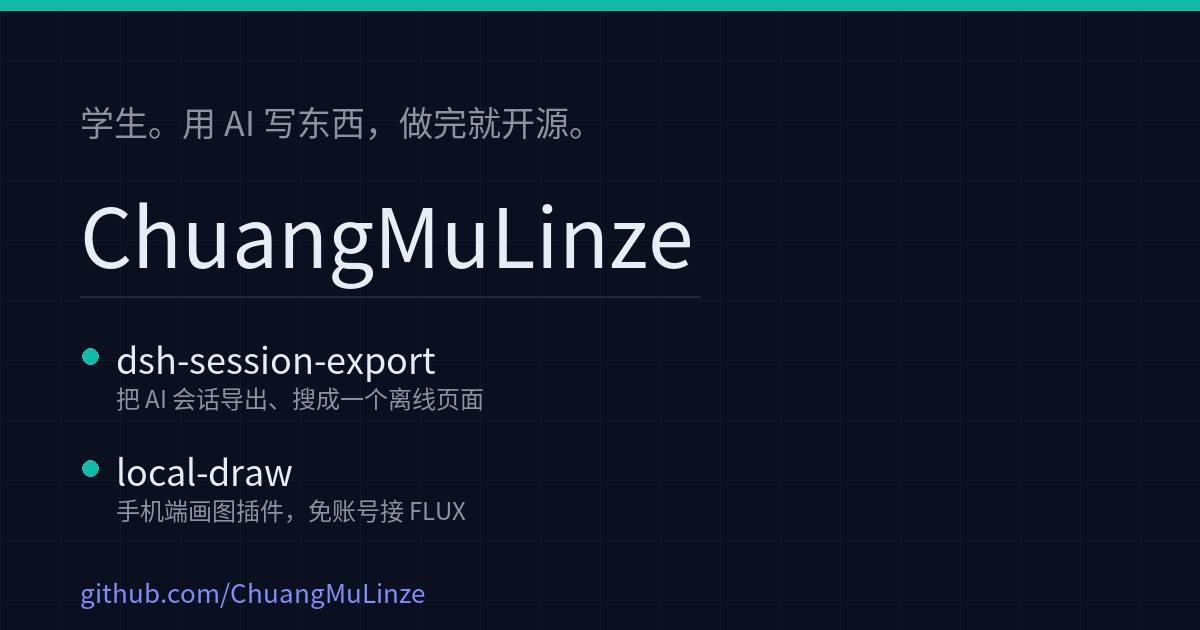
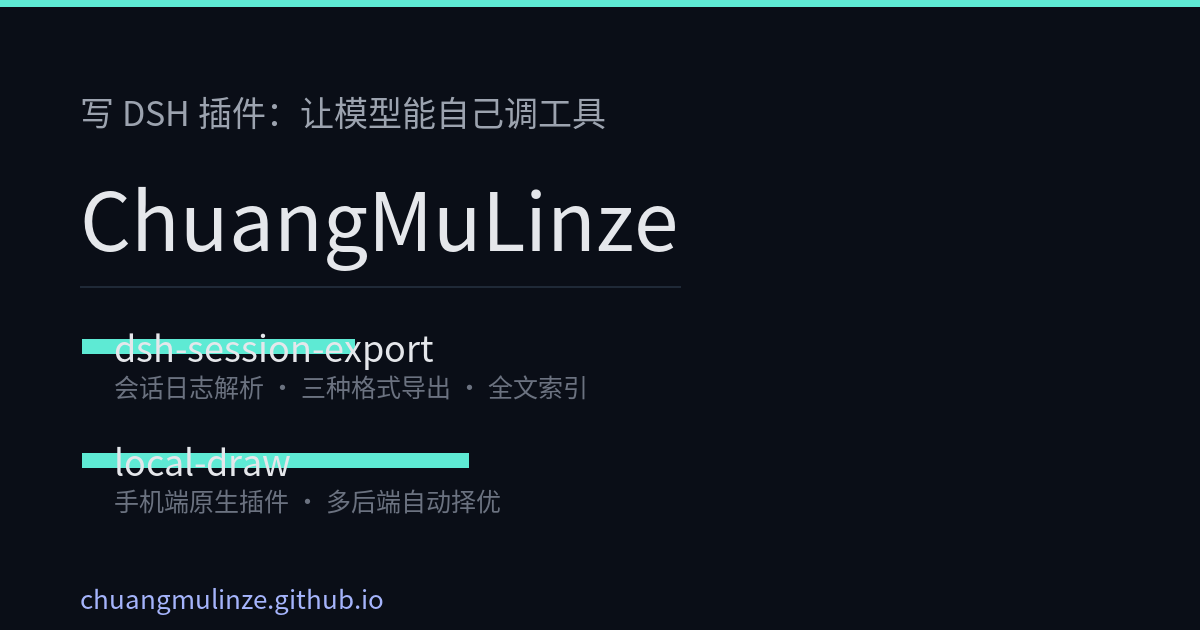
copy: 重写文案，加入具体机制与实测数字

diff --git a/index.html b/index.html
@@ -3,131 +3,175 @@
 <head>
 <meta charset="utf-8">
 <meta name="viewport" content="width=device-width, initial-scale=1">
-<title>ChuangMuLinze — 学生，用 AI 写东西</title>
-<meta name="description" content="学生。用 AI 写东西，做完就开源。在做手机端的 AI 工具。">
+<title>ChuangMuLinze — DSH 插件开发</title>
+<meta name="description" content="写 DSH 插件：让模型能自己调工具，而不是给它多一个按钮。">
 <meta property="og:type" content="website">
 <meta property="og:title" content="ChuangMuLinze">
-<meta property="og:description" content="学生。用 AI 写东西，做完就开源。">
+<meta property="og:description" content="写 DSH 插件：让模型能自己调工具，而不是给它多一个按钮。">
 <meta property="og:image" content="https://chuangmulinze.github.io/assets/og.png">
 <meta name="twitter:card" content="summary_large_image">
 <style>
   :root{
-    --bg:#0b1020; --panel:#141b2f; --line:#1e293f;
-    --text:#e6edf3; --muted:#8b949e; --accent:#14b8a6; --accent2:#818cf8;
+    --bg:#0a0e17; --panel:#111827; --line:#1f2937; --line-soft:#172033;
+    --text:#e5e7eb; --muted:#9ca3af; --dim:#6b7280;
+    --accent:#5eead4; --link:#a5b4fc;
+    --mono:ui-monospace,SFMono-Regular,"SF Mono",Menlo,Consolas,
+           "Liberation Mono",monospace;
   }
   *{box-sizing:border-box}
   html{-webkit-text-size-adjust:100%}
   body{
     margin:0; background:var(--bg); color:var(--text);
-    font:16px/1.75 -apple-system,BlinkMacSystemFont,"Segoe UI","PingFang SC",
+    font:16px/1.72 -apple-system,BlinkMacSystemFont,"Segoe UI","PingFang SC",
          "Hiragino Sans GB","Microsoft YaHei",sans-serif;
-    background-image:
-      linear-gradient(rgba(20,184,166,.04) 1px, transparent 1px),
-      linear-gradient(90deg, rgba(20,184,166,.04) 1px, transparent 1px);
-    background-size:60px 60px;
+    -webkit-font-smoothing:antialiased;
   }
-  .wrap{max-width:720px; margin:0 auto; padding:0 22px 96px}
-  .topbar{height:4px; background:linear-gradient(90deg,var(--accent),var(--accent2))}
+  .wrap{max-width:700px; margin:0 auto; padding:0 24px 100px}
+  .rule{height:3px; background:var(--accent); opacity:.85}
 
-  header{padding:56px 0 8px}
-  .eyebrow{
-    display:inline-flex; align-items:center; gap:8px;
-    font-size:13px; color:var(--accent); letter-spacing:.08em;
-    text-transform:uppercase; margin-bottom:18px;
+  header{padding:64px 0 0}
+  .status{
+    display:flex; align-items:center; gap:9px;
+    font:12px/1 var(--mono); letter-spacing:.06em;
+    color:var(--accent); margin-bottom:26px;
   }
-  .dot{width:7px;height:7px;border-radius:50%;background:var(--accent);
-       box-shadow:0 0 0 4px rgba(20,184,166,.15)}
-  h1{font-size:38px; line-height:1.15; margin:0 0 14px; letter-spacing:-.02em}
-  .tagline{font-size:17px; color:var(--muted); margin:0 0 10px}
-  .tagline b{color:var(--text); font-weight:600}
+  .status i{
+    width:6px; height:6px; border-radius:50%; background:var(--accent);
+    display:inline-block; animation:pulse 2.4s ease-in-out infinite;
+  }
+  @keyframes pulse{0%,100%{opacity:1}50%{opacity:.35}}
+  @media (prefers-reduced-motion:reduce){.status i{animation:none}}
 
-  section{padding-top:52px}
-  h2{font-size:13px; letter-spacing:.14em; text-transform:uppercase;
-     color:var(--muted); font-weight:600; margin:0 0 20px;
-     padding-bottom:10px; border-bottom:1px solid var(--line)}
+  h1{
+    font-size:40px; line-height:1.1; margin:0 0 18px;
+    letter-spacing:-.025em; font-weight:650;
+  }
+  .lede{font-size:17px; color:var(--muted); margin:0 0 6px; max-width:34em}
+  .lede b{color:var(--text); font-weight:600}
+
+  section{padding-top:56px}
+  h2{
+    font:11px/1 var(--mono); letter-spacing:.18em; text-transform:uppercase;
+    color:var(--dim); margin:0 0 22px; padding-bottom:12px;
+    border-bottom:1px solid var(--line);
+  }
 
   .card{
     display:block; text-decoration:none; color:inherit;
-    background:var(--panel); border:1px solid var(--line);
-    border-radius:14px; padding:20px 22px; margin-bottom:14px;
-    transition:border-color .15s ease, transform .15s ease;
+    background:var(--panel); border:1px solid var(--line-soft);
+    border-radius:12px; padding:22px; margin-bottom:16px;
+    transition:border-color .14s ease, background .14s ease;
   }
-  a.card:hover{border-color:var(--accent); transform:translateY(-1px)}
-  .card h3{margin:0 0 8px; font-size:19px; font-weight:600; letter-spacing:-.01em}
-  .card h3 .arrow{color:var(--accent); font-size:16px; margin-left:6px}
-  .card p{margin:0 0 14px; color:var(--muted); font-size:15px; line-height:1.65}
-  .meta{display:flex; flex-wrap:wrap; gap:8px}
-  .tag{
-    font-size:12px; color:var(--muted); border:1px solid var(--line);
-    border-radius:999px; padding:3px 10px; line-height:1.6;
+  a.card:hover{border-color:#2dd4bf44; background:#131c2e}
+  .head{display:flex; align-items:baseline; gap:10px; flex-wrap:wrap; margin-bottom:10px}
+  .name{
+    font:600 18px/1.3 var(--mono); letter-spacing:-.01em;
   }
-  .tag.now{color:var(--accent); border-color:rgba(20,184,166,.4)}
-  .tag.soon{color:var(--accent2); border-color:rgba(129,140,248,.4)}
+  .name .a{color:var(--accent); font-family:inherit; margin-left:2px}
+  .badge{
+    font:11px/1 var(--mono); padding:4px 8px; border-radius:5px;
+    border:1px solid var(--line); color:var(--dim); white-space:nowrap;
+  }
+  .badge.live{color:var(--accent); border-color:#5eead433}
+  .badge.wip{color:var(--link); border-color:#a5b4fc33}
 
-  .about p{margin:0 0 14px; color:var(--muted); font-size:15.5px}
+  .card p{margin:0 0 16px; color:#b3bac6; font-size:15px; line-height:1.72}
+  .card p em{font-style:normal; color:var(--text); font-weight:600}
+  code{
+    font:13px/1.5 var(--mono); background:#0b111d; color:#93c5fd;
+    padding:1.5px 5px; border-radius:4px; border:1px solid #1b2436;
+    word-break:break-word;
+  }
+  .spec{
+    font:12.5px/1.7 var(--mono); color:var(--dim);
+    padding:10px 0 0; border-top:1px dashed #1b2436; margin-bottom:14px;
+    word-break:break-word;
+  }
+  .tags{display:flex; flex-wrap:wrap; gap:7px}
+  .tag{
+    font:11px/1 var(--mono); color:var(--dim);
+    border:1px solid var(--line-soft); border-radius:4px; padding:5px 8px;
+  }
+
+  .about p{margin:0 0 16px; color:#b3bac6; font-size:15.5px}
   .about strong{color:var(--text); font-weight:600}
 
-  footer{margin-top:64px; padding-top:24px; border-top:1px solid var(--line);
-         color:var(--muted); font-size:14px;
-         display:flex; flex-wrap:wrap; gap:14px; justify-content:space-between}
-  footer a{color:var(--accent2); text-decoration:none}
+  footer{
+    margin-top:72px; padding-top:22px; border-top:1px solid var(--line);
+    display:flex; flex-wrap:wrap; gap:16px; justify-content:space-between;
+    font:12px/1.6 var(--mono); color:var(--dim);
+  }
+  footer a{color:var(--link); text-decoration:none}
   footer a:hover{text-decoration:underline}
 
   @media (max-width:480px){
-    h1{font-size:31px}
-    header{padding-top:40px}
+    h1{font-size:33px}
+    header{padding-top:46px}
     .card{padding:18px}
   }
 </style>
 </head>
 <body>
-<div class="topbar"></div>
+<div class="rule"></div>
 <div class="wrap">
 
   <header>
-    <div class="eyebrow"><span class="dot"></span>在做：手机端的 AI 工具</div>
+    <div class="status"><i></i>在做：dsh-go 原生插件</div>
     <h1>ChuangMuLinze</h1>
-    <p class="tagline">学生。<b>用 AI 写东西，做完就开源。</b></p>
-    <p class="tagline">不打草稿，先跑起来再改。</p>
+    <p class="lede">写 <b>DSH 插件</b>——让模型能自己调工具，而不是给它多一个按钮。</p>
+    <p class="lede">学生。用 AI 写东西，做完就开源。</p>
   </header>
 
   <section>
     <h2>作品</h2>
 
     <a class="card" href="https://github.com/ChuangMuLinze/dsh-session-export">
-      <h3>dsh-session-export <span class="arrow">↗</span></h3>
-      <p>把 AI 对话导出成 Markdown / HTML / JSON，还能把所有会话收进一个能搜索的离线页面。
-         导出是按钮的时候，模型够不到；做成工具，它就能自己去翻。</p>
-      <div class="meta">
-        <span class="tag">Node</span>
-        <span class="tag">零依赖</span>
-        <span class="tag">MIT</span>
-        <span class="tag">23 个测试</span>
+      <div class="head">
+        <span class="name">dsh-session-export<span class="a">↗</span></span>
+        <span class="badge live">v0.2.0</span>
+      </div>
+      <p>DSH 的会话日志是一串拼接的 zstd 帧，事件流里混着 <code>user/message</code>、
+         <code>tool/call</code>、<code>tool/result</code> 和自己的元数据。原生只能靠网页上
+         一个「复制为 Markdown」的按钮——<em>那是给手用的，模型够不到</em>。
+         这个插件把整条链路做成工具：解析帧、剥掉宿主注入的 system-reminder 与运行时上下文、
+         输出 Markdown / HTML / JSON；<code>index</code> 模式把所有会话压进一个自包含 HTML，
+         纯前端搜索，断网可用。</p>
+      <div class="spec">Cordis 插件 · 只用 Node 内置模块 · 23 个测试（含真实日志集成） · 宿主的注入噪音按事件类型过滤，不靠正则硬删</div>
+      <div class="tags">
+        <span class="tag">zero-deps</span><span class="tag">offline</span>
+        <span class="tag">MIT</span><span class="tag">agent-callable</span>
       </div>
     </a>
 
     <div class="card">
-      <h3>local-draw <span class="arrow"></span></h3>
-      <p>手机上的画图插件。不在手机上跑模型——那台手机跑不动，跑出来也糊。
-         改成接云端，免账号就能到 FLUX 的画质，1536 边长，点一下就出。</p>
-      <div class="meta">
-        <span class="tag now">在做</span>
-        <span class="tag">dsh-go 原生</span>
-        <span class="tag">多后端自动择优</span>
+      <div class="head">
+        <span class="name">local-draw</span>
+        <span class="badge wip">在做</span>
+      </div>
+      <p>dsh-go 原生插件：manifest 里声明胶囊和面板，App 只负责渲染我推的视图 JSON，图片字节落在插件自己的
+         <code>assets/</code> 目录，用 <code>asset:</code> 引用。生成不在端上跑——实测这颗芯片出 512px
+         要两分钟、结果还糊，<em>瓶颈是模型不是参数</em>。所以改成多后端自动择优，
+         无密钥时落到免账号的 FLUX 通道。免费额度有个坑：45 秒一张，而且<em>会偷偷缩图</em>——
+         请求 2048×1536，回来的是 886×665，这个数字现在就写在插件的错误提示里。</p>
+      <div class="spec">dsh-go 原生协议 · 视图 JSON · 多后端降级链 · 实测：境外节点 Node 自带 fetch 10s 连接超时打不通，改 node:https 自控超时</div>
+      <div class="tags">
+        <span class="tag">FLUX</span><span class="tag">multi-backend</span>
+        <span class="tag">1536px</span><span class="tag">no-account</span>
       </div>
     </div>
   </section>
 
   <section class="about">
     <h2>关于</h2>
-    <p>我在手机上写代码，用的是 <strong>DSH</strong> —— 一个能自己动手干活的 AI 助手。
-       所以我做的东西都有一个共同点：<strong>让 AI 能真正上手</strong>，而不是多一个要我自己点的按钮。</p>
-    <p>还在读书。项目都是自己用着不舒服，顺手做出来的。</p>
+    <p>在手机上写代码，DSH 既是运行时也是编辑器。做出来的东西有一个共同点：
+       <strong>模型能自己调</strong>。导出只存在于网页按钮里，所以做成工具；手机上画图要先聊三轮，
+       所以做成一个点一下就走的胶囊。</p>
+    <p>还在读书。动手的理由都很具体——自己用着别扭，就去修。</p>
   </section>
 
   <footer>
-    <span>© 2026 ChuangMuLinze</span>
-    <a href="https://github.com/ChuangMuLinze">GitHub</a>
+    <span>2026 · ChuangMuLinze</span>
+    <a href="https://github.com/ChuangMuLinze">github.com/ChuangMuLinze</a>
   </footer>
 
 </div>
